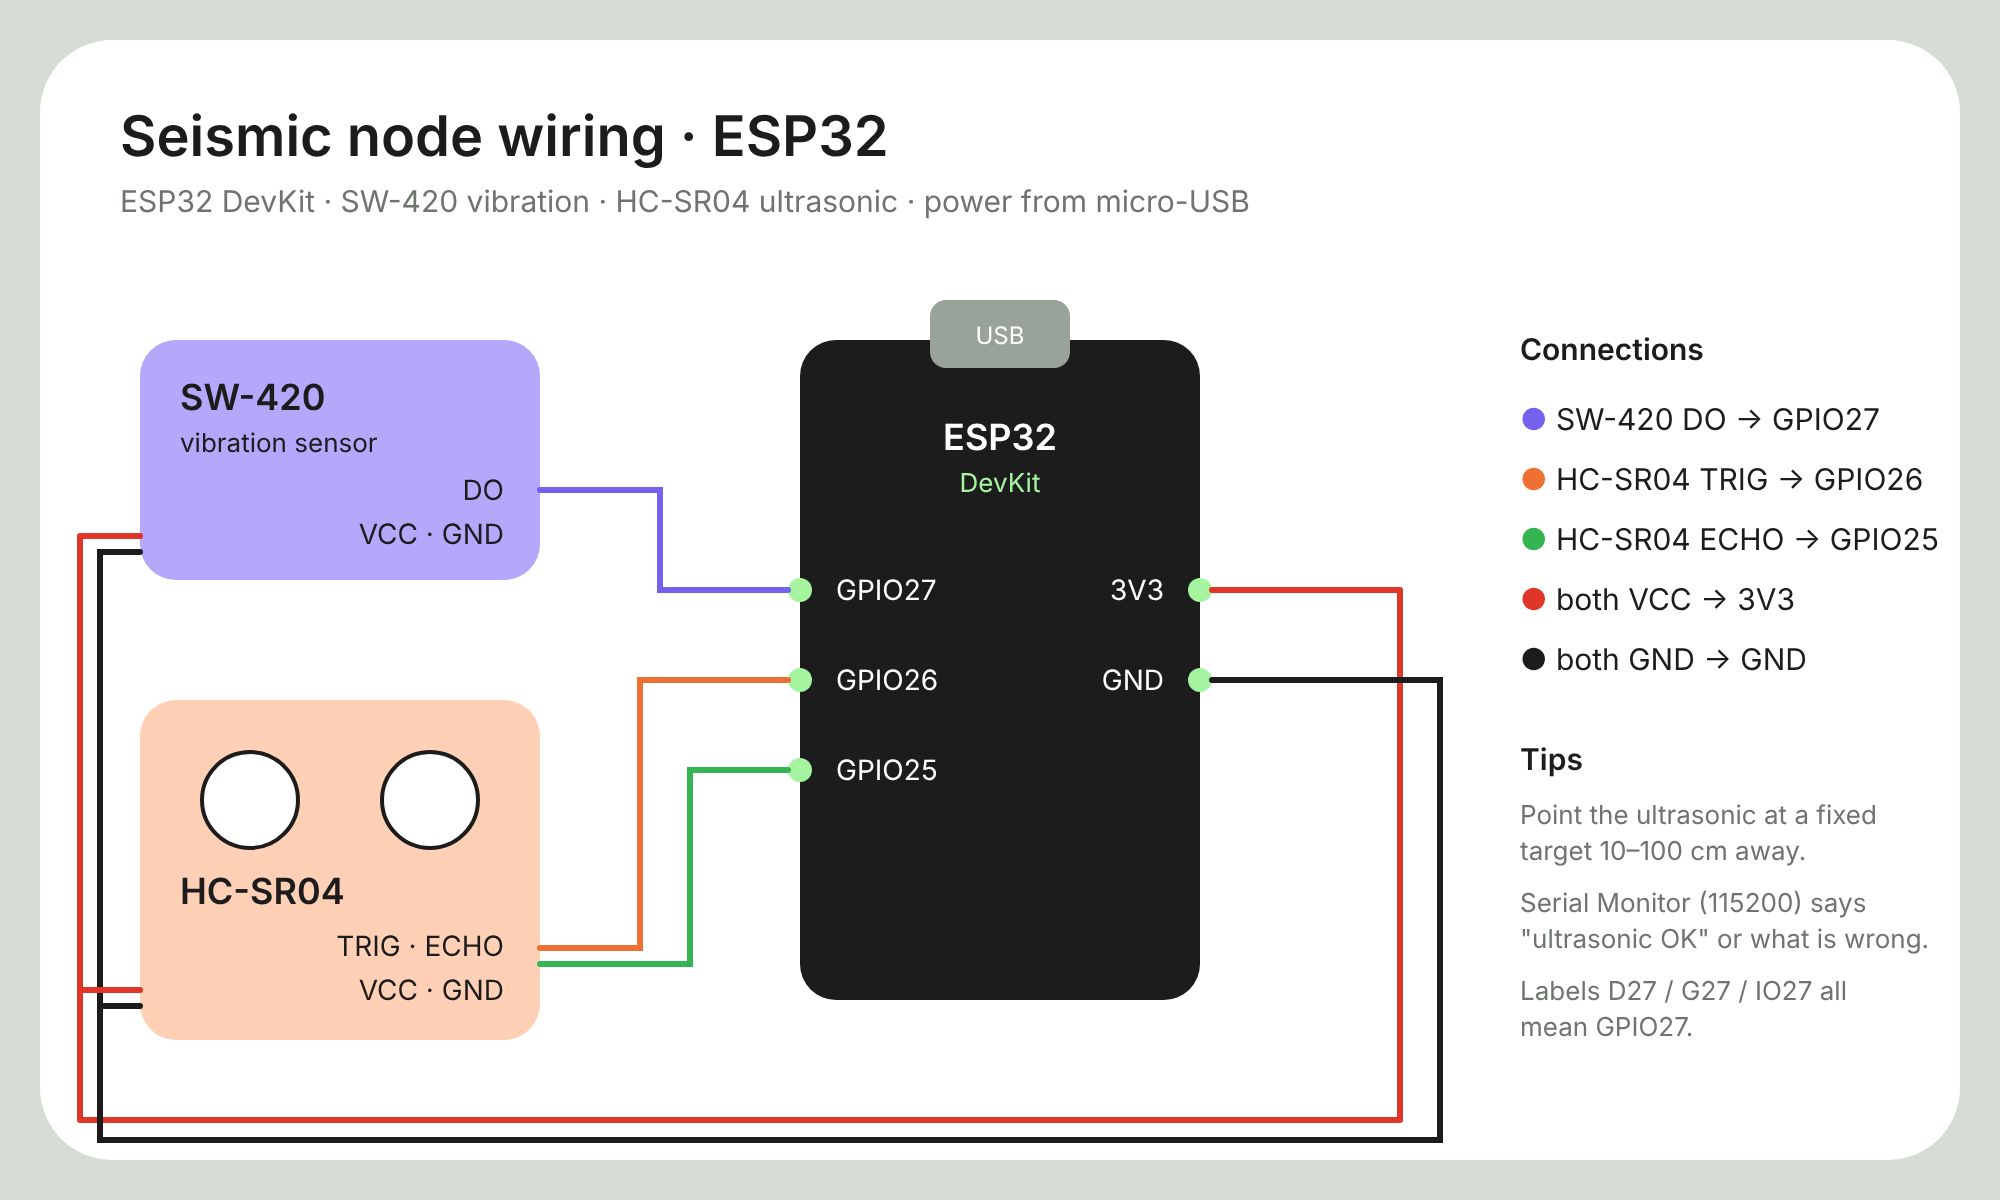
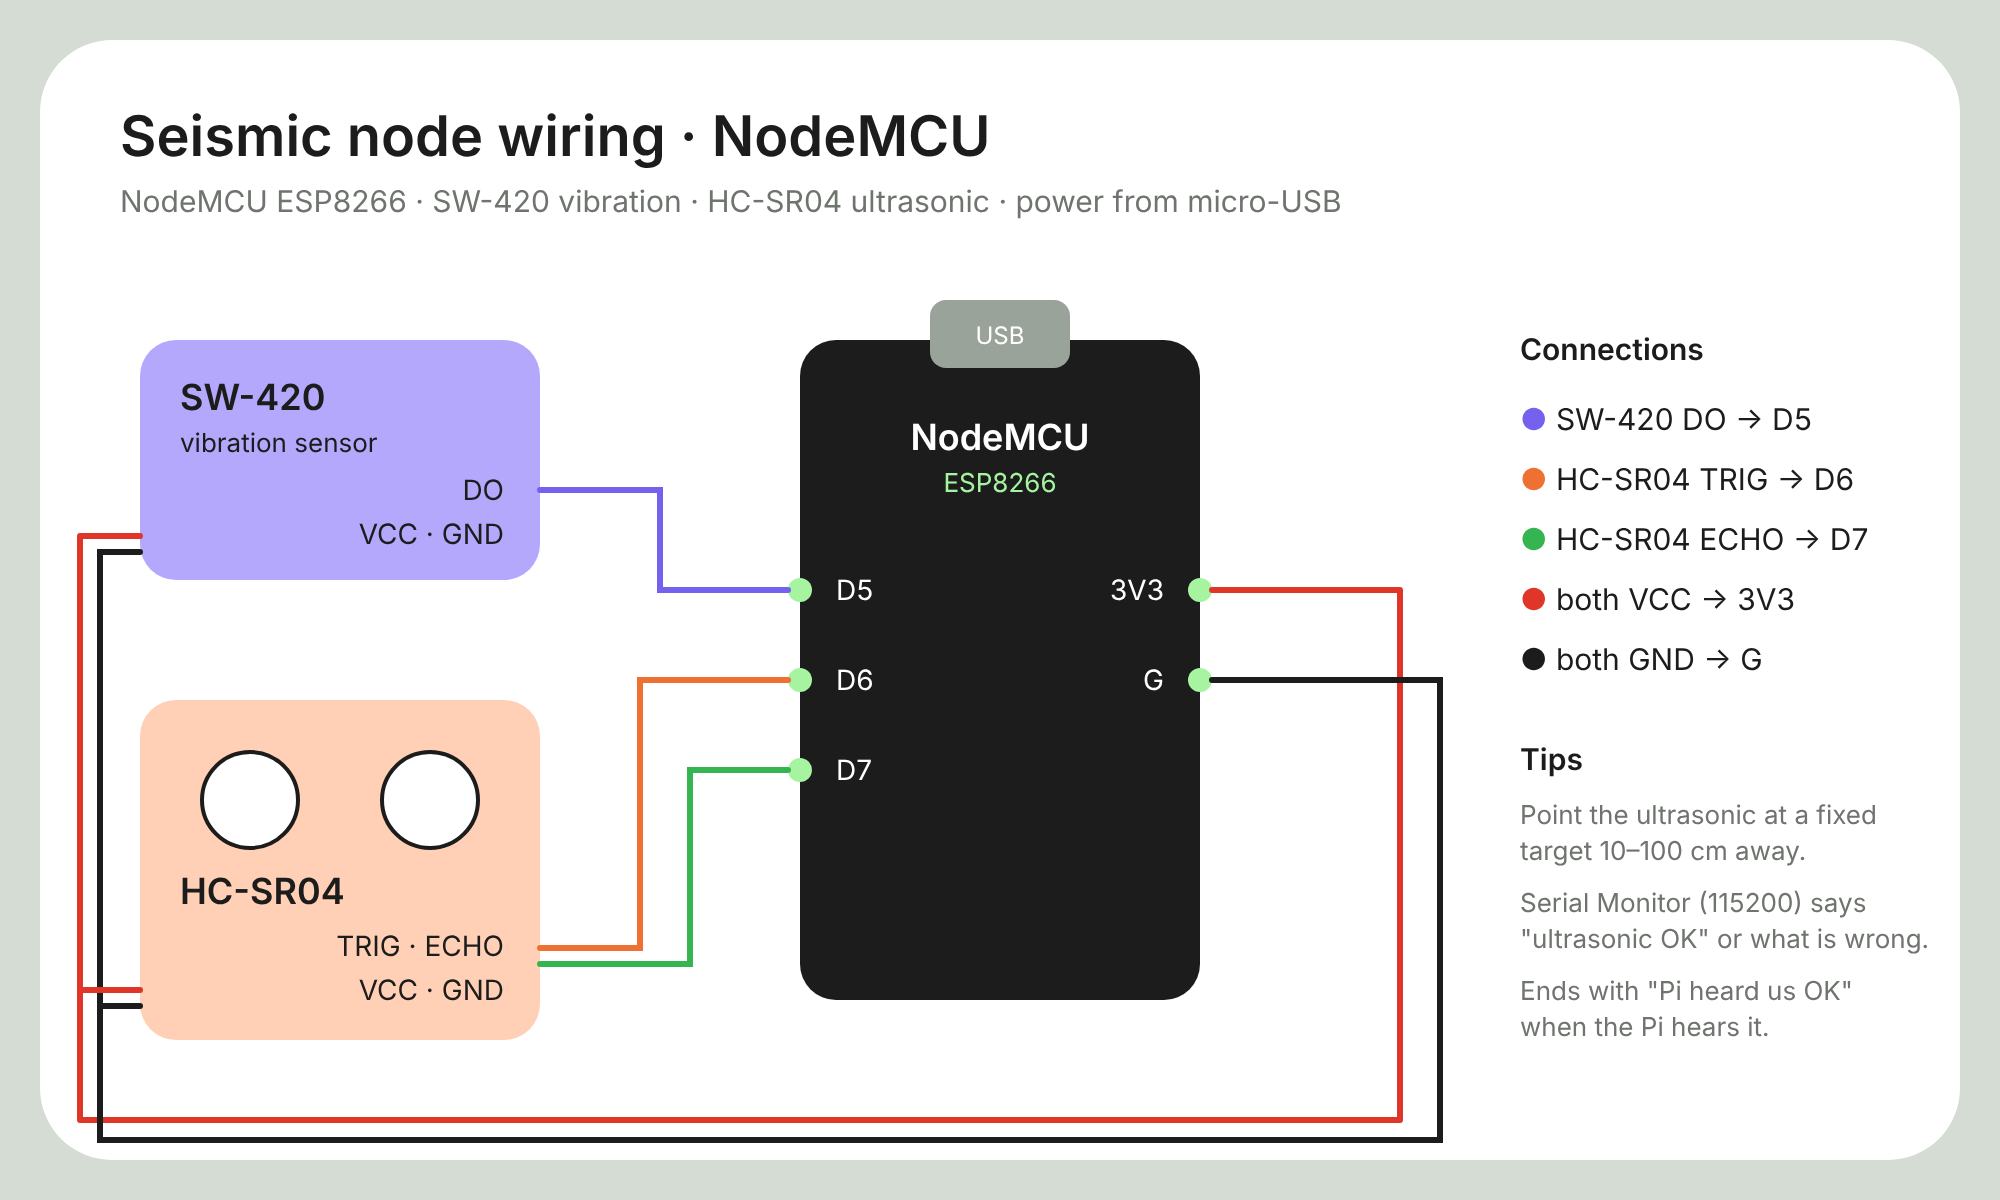
Seismic node: switch from ESP32 to NodeMCU ESP8266 (D5/D6/D7)

diff --git a/raspberry-pi/serial_dashboard.py b/raspberry-pi/serial_dashboard.py
@@ -1676,7 +1676,7 @@ DASHBOARD_HTML = """<!DOCTYPE html>
               <span class="icon mint"><svg viewBox="0 0 24 24"><path d="M2 12h3l2-6 3 13 3-16 3 14 2-5h4"/></svg></span>
               <div>
                 <h2>Seismic Monitor</h2>
-                <div class="sub">ESP32 · vibration + ultrasonic</div>
+                <div class="sub">NodeMCU · vibration + ultrasonic</div>
               </div>
             </div>
             <span class="tag" id="seisPill">No data</span>

diff --git a/docs/hardware.md b/docs/hardware.md
@@ -10,7 +10,7 @@ hotspot). Put the wifi name and password at the top of each wifi sketch
 |---|---|
 | Arduino Nano | built in (*Arduino AVR Boards*) |
 | NodeMCU ESP8266 | *esp8266 by ESP8266 Community* (board: **NodeMCU 1.0 (ESP-12E Module)**) |
-| ESP32 / NodeMCU ESP-32S | *esp32 by Espressif Systems* (board: **ESP32 Dev Module**) |
+| ESP32 (motor node) | *esp32 by Espressif Systems* (board: **ESP32 Dev Module**) |
 
 No extra libraries are needed for any sketch.
 
@@ -93,34 +93,37 @@ I2C address `0x3C`. Library-free driver, so nothing to install. Screens rotate e
 Join all grounds (ESP32, driver, battery −). Keep GPIO 0, 2, 12, 15 free.
 Motors stop by themselves after `RUN_SECONDS` (10 s) or if wifi drops.
 
-## 6. Seismic node: NodeMCU ESP-32S v1.1 (`firmware/esp32_seismic_node`)
+## 6. Seismic node: NodeMCU ESP8266 (`firmware/esp8266_seismic_node`)
 
 ![Seismic node wiring](images/seismic_wiring.png)
 
 | Part | Pin |
 |---|---|
-| SW-420 vibration DO | 27 |
-| HC-SR04 Trig | 26 |
-| HC-SR04 Echo | 25 |
+| SW-420 vibration DO | D5 |
+| HC-SR04 Trig | D6 |
+| HC-SR04 Echo | D7 |
 | VCC of both | 3V3 |
-| GND of both | GND |
+| GND of both | G |
+
+D5, D6 and D7 are safe for sensors (avoid D3, D4 and D8: they decide how the NodeMCU boots).
 
 Point the ultrasonic at something flat 10-100 cm away that moves when the "ground"
 shakes. The node learns the normal distance by itself. The Serial Monitor (115200)
 prints a health line every second, for example
-`ultrasonic OK: 30.0 cm (normal 30.0, 25/25 pings) | vibration 0 flips/s | calm, 1 reports/s | wifi ok`.
+`ultrasonic OK: 30.0 cm (normal 30.0, 25/25 pings) | vibration 0 flips/s | calm, 1 reports/s | wifi ok | Pi heard us OK (192.168.43.120)`.
 
-If it says **NO ECHO** on 3.3 V, power the HC-SR04 from 5V/VIN and use the 1 kΩ + 2 kΩ
-divider on Echo.
+If it says **NO ECHO** on 3.3 V, power the HC-SR04 from VIN (5V) and use the
+1 kΩ + 2 kΩ divider on Echo (`Echo → 1 kΩ → D7`, `D7 → 2 kΩ → G`).
 
 **Earthquake:** ground movement of 4 cm or more **and** shaking, together for 0.5 s.
 
 The node reports once a second when calm and 5 times a second while active, sends
-instantly when shaking starts, reconnects wifi by itself and has a watchdog.
-It finds the Pi by name (`PI_HOST = "admin"`, i.e. `admin.local`) and sends straight to
-it; the Pi answers every 2 s and the health line ends with **`Pi heard us OK (ip)`**.
-If it says **`Pi NOT answering`**, check the dashboard is running and both are on the same
-wifi; you can also type the Pi's IP into `PI_IP_FIXED`.
+instantly when shaking starts, reads the ultrasonic with interrupts (no waiting),
+reconnects wifi by itself and relies on the ESP8266's built-in watchdog.
+It broadcasts until the Pi answers, then sends straight to the Pi; the Pi answers every
+2 s and the health line ends with **`Pi heard us OK (ip)`**. If it says
+**`Pi NOT answering`**, check the new dashboard is running on the Pi and both are on the
+same wifi; you can also type the Pi's IP into `PI_IP_FIXED`.
 
 ## 7. Raspberry Pi 3B+
 

diff --git a/README.md b/README.md
@@ -32,7 +32,7 @@ flowchart LR
     MTN["Mountain node<br/>ESP8266 · PIR · vibration · LDR"] -- wifi UDP --> PI
     TRF["Traffic node<br/>ESP8266 · lights · ultrasonic"] <-- wifi UDP --> PI
     MOT["Motor node<br/>ESP32 · L293D · 2 motors"] <-- wifi UDP --> PI
-    SEI["Seismic node<br/>ESP32 · vibration · ultrasonic"] -- wifi UDP --> PI
+    SEI["Seismic node<br/>ESP8266 · vibration · ultrasonic"] -- wifi UDP --> PI
     PI["Raspberry Pi 3B+<br/>serial_dashboard.py"] -- wifi UDP --> OLED["Status display<br/>ESP8266 · OLED"]
     WEB["Open-Meteo<br/>temperature"] --> PI
     PI -- "http :8765" --> BROWSER["Dashboard in any browser<br/>phone · laptop · tablet"]
@@ -56,7 +56,7 @@ smartcity/
 │   ├── esp8266_traffic_node/        # NodeMCU ESP8266: traffic light + HC-SR04
 │   ├── esp8266_oled_node/           # NodeMCU ESP8266: 0.96" OLED status display
 │   ├── esp32_motor_node/            # ESP32: 2 motors with an L293D driver
-│   └── esp32_seismic_node/          # ESP32 (NodeMCU ESP-32S): vibration + HC-SR04
+│   └── esp8266_seismic_node/        # NodeMCU ESP8266: vibration + HC-SR04
 └── docs/                            # guides and screenshots
 ```
 
@@ -69,7 +69,7 @@ smartcity/
 | Traffic | NodeMCU ESP8266 | Red/yellow/green light module, HC-SR04 | wifi |
 | Status display | NodeMCU ESP8266 | 0.96" SSD1306 OLED (I2C) | wifi |
 | Motors | ESP32 DevKit | L293D driver board, 2 DC motors | wifi |
-| Seismic | NodeMCU ESP-32S v1.1 | SW-420 vibration, HC-SR04 | wifi |
+| Seismic | NodeMCU ESP8266 | SW-420 vibration, HC-SR04 | wifi |
 | Hub | Raspberry Pi 3B+ | — | — |
 
 Full wiring for every node: [docs/hardware.md](docs/hardware.md).
